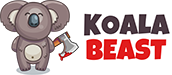
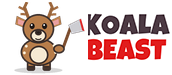
BambiPro rebrand, disabled dead links, link previews
- visible game-name text: crossed-out Tag + Bambi (powerup 'TagPro' untouched); titles,
  alt text and preview tags say BambiPro; texture JSON and map names protected
- redrawn logo (BAMBIPRO block letters) and deer badge (tools/rebrand.py, originals kept)
- Leaders/Competitive/Donate greyed out and unclickable; texture template images mirrored
- og:url/og:image absolute for this site; stray 'game not found' banner removed from home

diff --git a/server/pages.js b/server/pages.js
@@ -19,9 +19,49 @@ function esc(s) {
 let statsProvider = () => ({});
 function setStatsProvider(fn) { statsProvider = fn; }
 
+// ---- branding: visible "TagPro" -> crossed-out "Tag" + "Bambi" (titles/alt text: plain BambiPro)
+// only the game's name: whole word, not the TagPro powerup ("Powerup: TagPro", "Kissing TagPros",
+// "TagPro Max Tags", "TagPro Duration", "TagPro powerup")
+const BRAND_RE = /(?<!powerup:\s*)\b(tag)(pro)\b(?!s\b|\s+(?:powerup|max tags|duration))/gi;
+const bambi = (tag) => (tag === tag.toUpperCase() ? 'BAMBI' : tag[0] === 'T' ? 'Bambi' : 'bambi');
+function rebrand(html) {
+  const plain = (t) => t.replace(BRAND_RE, (m, tag, pro) => bambi(tag) + pro);
+  // inside <option>/<textarea> markup can't render: plain text, and an option without a value
+  // attribute is left alone (its text is its value, e.g. map names like "GASBOP TagPro Map")
+  let inOption = null, rawUntil = null;
+  return html.split(/(<script[\s\S]*?<\/script>|<style[\s\S]*?<\/style>|<title>[\s\S]*?<\/title>|<textarea[\s\S]*?<\/textarea>|<[^>]+>)/i).map((part) => {
+    if (rawUntil) { if (part.toLowerCase().startsWith(rawUntil)) rawUntil = null; return part; }
+    if (/^<(title|textarea)/i.test(part)) return plain(part);
+    if (/^<div\b[^>]*id="texture-pack-data"/i.test(part)) { rawUntil = '</div'; return part; } // JSON data, not text
+    if (part.startsWith('<')) {
+      if (/^<option\b/i.test(part)) inOption = /\bvalue=/i.test(part) ? 'plain' : 'keep';
+      else if (/^<\/(option|select)/i.test(part)) inOption = null;
+      // alt text and link-preview tags (og:*, twitter:*, description) can't show markup: plain BambiPro
+      if (/^<meta\b/i.test(part)) return part.replace(/(\bcontent=")([^"]*)(")/i, (m, a, v, b) => a + plain(v) + b);
+      return part.replace(/(\balt=")([^"]*)(")/gi, (m, a, v, b) => a + plain(v) + b);
+    }
+    if (inOption === 'keep') return part;
+    if (inOption === 'plain') return plain(part);
+    return part.replace(BRAND_RE, (m, tag, pro) => `<s>${tag}</s>${bambi(tag)}${pro}`);
+  }).join('');
+}
+
+// pages that don't exist on this server: shown greyed out and unclickable
+const DEAD_LINKS = ['/leaders', '/competitive', '/donate'];
+function disableDeadLinks(html) {
+  return html.replace(/<a\b([^>]*?)\bhref="([^"]*)"([^>]*)>/gi, (m, pre, href, post) =>
+    DEAD_LINKS.includes(href) ? `<a${pre}${post} aria-disabled="true" style="pointer-events:none;opacity:.4;cursor:default">` : m);
+}
+
 function render(name, vars = {}) {
   vars = Object.assign({}, statsProvider(), vars);
   let html = tpl(name).replace(/\{\{([A-Z_]+)\}\}/g, (m, k) => (k in vars ? vars[k] : m));
+  html = disableDeadLinks(rebrand(html));
+  // link previews (Discord etc.) need absolute URLs pointing at this site
+  if (vars.ORIGIN) {
+    html = html.replace(/(<meta property="og:url" content=")[^"]*(")/i, `$1${vars.ORIGIN}/$2`)
+      .replace(/(<meta property="og:image" content=")\/(?!\/)([^"]*")/i, `$1${vars.ORIGIN}/$2`);
+  }
   if (vars.USER_NAME) {
     // logged in: the header's "Log In / Sign Up" becomes the player's name (links to the profile)
     html = html.replace('<a id="login-btn" class="btn btn-secondary" href="/login">Log In / Sign Up</a>', `<a id="login-btn" class="btn btn-secondary" href="/profile">${esc(vars.USER_NAME)}</a>`)

diff --git a/server/admin.js b/server/admin.js
@@ -25,14 +25,14 @@ const LABELS = {
   accel: 'Acceleration multiplier', topspeed: 'Top speed multiplier', bounce: 'Bounciness multiplier',
   playerRespawnTime: 'Player respawn (ms)', speedPadRespawnTime: 'Boost respawn (ms)', dynamiteRespawnTime: 'Bomb respawn (ms)',
   powerupRespawnTime: 'Powerup respawn (ms)', powerupJukeJuiceDuration: 'Juke juice duration (ms)',
-  powerupRollingBombDuration: 'Rolling bomb duration (ms)', powerupTagproDuration: 'TagPro duration (ms)',
+  powerupRollingBombDuration: 'Rolling bomb duration (ms)', powerupTagproDuration: 'TagPro powerup duration (ms)',
   redTeamName: 'Red team name', blueTeamName: 'Blue team name', redTeamScore: 'Red starting score', blueTeamScore: 'Blue starting score',
   potatoTime: 'Potato timer (ms, 0 = off)', powerupDelay: 'Delay first powerups one cycle', lastPossession: 'Clutch time (last possession)',
   ghostMode: 'Ghost mode', poosts: 'Pop/portal boosts', kissingFCs: 'Kissing flag carriers', kissingTPs: 'Kissing TagPros',
   jukeJuiceBoost: 'Juke juice spacebar boost', jukeJuiceBoostPower: 'Juke juice boost power (%)',
   rollingBombForceMultipler: 'Rolling bomb force multiplier', rollingBombDistanceMultipler: 'Rolling bomb distance multiplier',
-  spacebarDetonateAll: 'Spacebar uses all powerups', tagproMaxTags: 'TagPro max tags (0 = unlimited)', gravityWellForce: 'Gravity well force',
-  powerupJukeJuice: 'Juke juice', powerupTagPro: 'TagPro', powerupRollingBomb: 'Rolling bomb', combinejjrb: 'Combine juke juice + rolling bomb',
+  spacebarDetonateAll: 'Spacebar uses all powerups', tagproMaxTags: 'TagPro powerup max tags (0 = unlimited)', gravityWellForce: 'Gravity well force',
+  powerupJukeJuice: 'Powerup: Juke juice', powerupTagPro: 'Powerup: TagPro', powerupRollingBomb: 'Powerup: Rolling bomb', combinejjrb: 'Combine juke juice + rolling bomb',
   jumpLimit: 'Gravity: jumps (51 = unlimited)', isPlayerJumpResetEnabled: 'Gravity: landing on players resets jumps',
   mapTestingMode: 'Map testing mode', respawnWarnings: 'Respawn warnings', pupIndicators: 'Next powerup indicators', disableAllPups: 'Disable all powerups',
 };

diff --git a/server/index.js b/server/index.js
@@ -60,7 +60,11 @@ function withTextures(req, page) {
 // every page shows the logged-in name in the header
 const _render = pages.render;
 let currentReq = null;
-pages.render = (name, vars = {}) => _render(name, Object.assign({ USER_NAME: currentReq && currentReq.session.account ? currentReq.session.account.displayName : '' }, vars));
+const origin = (req) => req ? `${req.headers['x-forwarded-proto'] || req.protocol}://${req.headers['x-forwarded-host'] || req.headers.host}` : '';
+pages.render = (name, vars = {}) => _render(name, Object.assign({
+  USER_NAME: currentReq && currentReq.session.account ? currentReq.session.account.displayName : '',
+  ORIGIN: origin(currentReq),
+}, vars));
 app.use((req, res, next) => { currentReq = req; next(); });
 
 const card = (title, content, script) => pages.render('card.html', { TITLE: title, CARD: content, PAGE_SCRIPT: script || '/R-965af4e7a4b8-z/compact/global-settings.js' });

diff --git a/server/pages/home.html b/server/pages/home.html
@@ -121,9 +121,7 @@
 
 
 
-                    <div class="msg msg-warning">
-                        Sorry. Unable to find the game you were looking for. Hit the 'Play Now' button and try again.
-                    </div>
+                    
 
 
 

diff --git a/tools/rebrand.py b/tools/rebrand.py
@@ -1,0 +1,103 @@
+# Redraws the two branded images:
+#  - images/logo.png: "BAMBIPRO" in the original logo's beveled block style (colours sampled
+#    from the real TagPro logo)
+#  - images/KoalaBeast.png: the koala is replaced by a cartoon deer (text kept)
+# Originals are kept as images/logo-original.png and images/KoalaBeast-original.png.
+import os, shutil
+from PIL import Image, ImageDraw, ImageFilter
+
+ROOT = os.path.dirname(os.path.dirname(os.path.abspath(__file__)))
+IMG = os.path.join(ROOT, 'public', 'images')
+for name in ('logo.png', 'KoalaBeast.png'):
+    orig = os.path.join(IMG, name.replace('.png', '-original.png'))
+    if not os.path.exists(orig): shutil.copy(os.path.join(IMG, name), orig)
+
+# ---------------------------------------------------------------- logo
+FILL, HI_TOP, HI_LEFT, SH_RIGHT, SH_BOTTOM, OUTLINE = (120,) * 3, (171,) * 3, (146,) * 3, (83,) * 3, (52,) * 3, (35,) * 3
+GLYPHS = {  # 3-column x 5-row block font matching the original's chunky letters (M uses 5 columns)
+    'B': ['XXX.', 'X..X', 'XXX.', 'X..X', 'XXX.'],
+    'A': ['XXX', 'X.X', 'XXX', 'X.X', 'X.X'],
+    'M': ['X...X', 'XX.XX', 'X.X.X', 'X...X', 'X...X'],
+    'I': ['XXX', '.X.', '.X.', '.X.', 'XXX'],
+    'P': ['XXX', 'X.X', 'XXX', 'X..', 'X..'],
+    'R': ['XXX', 'X.X', 'XX.', 'X.X', 'X.X'],
+    'O': ['XXX', 'X.X', 'X.X', 'X.X', 'XXX'],
+}
+COL, ROWS_H, GAP, BEVEL, H = 24, 97, 11, 6, 108
+def glyph_mask(g):
+    cols = len(g[0]); colw = {3: COL, 4: 19, 5: 19}[cols]
+    w = cols * colw
+    m = Image.new('L', (w, H), 0); d = ImageDraw.Draw(m)
+    for r, row in enumerate(g):
+        y0, y1 = round(r * ROWS_H / 5), round((r + 1) * ROWS_H / 5)
+        for c, ch in enumerate(row):
+            if ch == 'X': d.rectangle([c * colw, y0, (c + 1) * colw - 1, y1 - 1], fill=255)
+    # B's right-hand bowls: round the notches into the original's squared look by filling the gaps
+    return m
+def shade(mask):
+    w, h = mask.size; px = mask.load()
+    out = Image.new('RGBA', (w, h), (0, 0, 0, 0)); o = out.load()
+    inside = lambda x, y: 0 <= x < w and 0 <= y < h and px[x, y] > 0
+    for y in range(h):
+        for x in range(w):
+            if not inside(x, y): continue
+            col = FILL
+            for d in range(1, BEVEL + 1):
+                if not inside(x, y + d): col = SH_BOTTOM if d > 2 else OUTLINE; break
+                if not inside(x + d, y): col = SH_RIGHT; break
+                if not inside(x, y - d): col = HI_TOP; break
+                if not inside(x - d, y): col = HI_LEFT; break
+            o[x, y] = col + (255,)
+    return out
+letters = [shade(glyph_mask(GLYPHS[ch])) for ch in 'BAMBIPRO']
+W = sum(l.width for l in letters) + GAP * (len(letters) - 1)
+logo = Image.new('RGBA', (W, H), (0, 0, 0, 0)); x = 0
+for l in letters: logo.alpha_composite(l, (x, 0)); x += l.width + GAP
+logo.save(os.path.join(IMG, 'logo.png'))
+
+# ---------------------------------------------------------------- deer badge
+orig = Image.open(os.path.join(IMG, 'KoalaBeast-original.png')).convert('RGBA')
+S = 4                                  # draw at 4x, then scale down for smooth edges
+art = Image.new('RGBA', (92 * S, 75 * S), (0, 0, 0, 0)); d = ImageDraw.Draw(art)
+LINE, LW = (59, 46, 42, 255), 7
+FUR, FUR_D, CREAM, PINK, HOOF = (183, 125, 74, 255), (150, 98, 56, 255), (246, 233, 210, 255), (233, 160, 160, 255), (70, 52, 44, 255)
+def ell(box, fill): d.ellipse(box, fill=fill, outline=LINE, width=LW)
+d.ellipse([60, 272, 260, 296], fill=(0, 0, 0, 40))                         # ground shadow
+# antlers
+for side in (-1, 1):
+    bx = 160 + side * 40
+    d.line([(bx, 70), (bx + side * 18, 22), (bx + side * 8, 0)], fill=FUR_D, width=13, joint='curve')
+    d.line([(bx + side * 14, 34), (bx + side * 42, 20)], fill=FUR_D, width=11)
+    d.line([(bx + side * 8, 52), (bx + side * 34, 50)], fill=FUR_D, width=10)
+# legs + hooves
+for lx in (112, 178):
+    d.rounded_rectangle([lx, 236, lx + 34, 284], radius=10, fill=FUR, outline=LINE, width=LW)
+    d.rounded_rectangle([lx, 266, lx + 34, 286], radius=8, fill=HOOF, outline=LINE, width=LW)
+# body + belly + spots
+ell([86, 150, 238, 266], FUR)
+ell([122, 182, 202, 258], CREAM)
+for sx, sy in ((104, 178), (96, 206), (220, 176), (226, 204)): d.ellipse([sx, sy, sx + 11, sy + 11], fill=CREAM)
+# ears
+for side in (-1, 1):
+    cx = 160 + side * 78
+    d.polygon([(160 + side * 40, 82), (cx + side * 12, 58), (cx + side * 18, 92), (160 + side * 46, 112)], fill=FUR, outline=LINE)
+    d.polygon([(160 + side * 46, 86), (cx + side * 6, 70), (cx + side * 8, 90), (160 + side * 48, 104)], fill=PINK)
+# head
+ell([94, 50, 226, 172], FUR)
+ell([126, 112, 194, 168], CREAM)                                          # muzzle
+ell([146, 116, 174, 138], (40, 32, 30, 255))                              # nose
+for ex in (124, 176):
+    d.ellipse([ex, 88, ex + 20, 112], fill=(30, 24, 22, 255))
+    d.ellipse([ex + 5, 92, ex + 11, 99], fill=(255, 255, 255, 255))
+d.arc([146, 140, 174, 158], 20, 160, fill=LINE, width=5)                   # smile
+# arm + axe (like the koala's)
+d.line([(262, 196), (300, 92)], fill=(120, 74, 44, 255), width=12)        # handle
+d.polygon([(286, 96), (338, 70), (352, 120), (300, 132)], fill=(205, 205, 210, 255), outline=LINE)
+d.polygon([(338, 70), (352, 120), (344, 118), (332, 74)], fill=(214, 40, 40, 255))
+ell([222, 176, 270, 214], FUR)                                            # hand gripping the handle
+deer = art.resize((88, 72), Image.LANCZOS)
+badge = orig.copy()
+ImageDraw.Draw(badge).rectangle([0, 0, 87, 74], fill=(0, 0, 0, 0))       # clear the koala (text starts at x=88)
+badge.alpha_composite(deer, (0, 2))
+badge.save(os.path.join(IMG, 'KoalaBeast.png'))
+print('logo', logo.size, '| badge', badge.size)

diff --git a/tools/build-pages.py b/tools/build-pages.py
@@ -52,6 +52,8 @@ def groups(h):
     return h[:a] + '\n{{GROUPS_LIST}}\n                    ' + h[b:]
 page('groups-real.html', 'groups.html', groups)
 def home(h):
+    # the captured page came from a failed game lookup; the real homepage has no banner
+    h = re.sub(r'<div class="msg msg-warning">\s*Sorry\. Unable to find the game[\s\S]*?</div>', '', h)
     # Play Now goes straight to the matchmaking queue; live queue status under the button
     h = h.replace('<a id="play-now" class="btn btn-primary" href="/games/select">', '<a id="play-now" class="btn btn-primary" href="/games/find">')
     widget = '''
